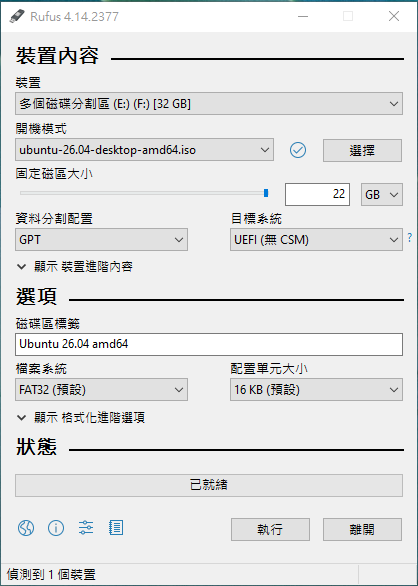
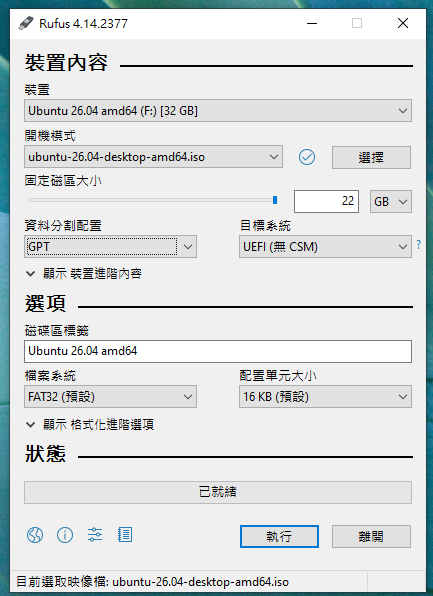
Windows bad, linux basic

Changed region(s): [[0.0, 0.0, 1.0, 1.0], [0.5287, 0.8601, 0.7775, 0.9215]]

diff --git a/ubuntu-party-2026/slides.md b/ubuntu-party-2026/slides.md
@@ -36,15 +36,78 @@ blockquote {
 ---
 transition: slide-up
 ---
+# 製作開機碟
+首先要下載作業系統的 ISO 檔。今天我們要灌的是 [Ubuntu 26.04](https://releases.ubuntu.com/26.04/)，已經幫各位下載下來了。
 
-# Windows v.s Linux
+## Linux
+- 方法一 (`dd`)
+  - 一個一個區塊(bits 尺度)複製過去
+```bash
+sudo dd if=/path/to/iso of=/path/to/device bs=4M status=progress
+```
 
-## 記憶體用量 (Windows)
+- 方法二 (`rsync`)
+  - 一個一個檔案搬過去
+  - 可以改內容
+  - 超麻煩，有興趣的人參考[這篇文章](https://www.windson.cc/zh/posts/live-usb-2/)
+
+<style>
+li {
+  margin-top: 15px
+}
+</style>
+---
+transition: slide-up
+---
+## Windows
+
+使用 [Rufus](https://rufus.ie/en/#download)
+
+<img src="./img/rufus_cover.png" class="mx-auto">
+
+<style>
+img {
+  height: 400px;
+  width: 
+} 
+</style>
+
+---
+layout: image-right
+image: ./img/rufus.png
+transition: slide-up
+---
+
+## Rufus
+1. 裝置：找到你的USB（他會自己找到 or 比對儲存空間大小）
+2. 開機模式：ubuntu-26.04-desktop-amd64.iso
+3. 資料分割配置：GPT
+
+<style>
+li {
+  margin-top: 20px;
+}
+</style>
+---
+layout: cover
+transition: slide-left
+---
+# Wait A Half Hour
+
+---
+layout: cover
+transition: slide-up
+---
+# Why use Linux ?
+---
+transition: slide-up
+---
+## 閒置時記憶體用量 (Windows)
 
  
 <div class="memory-item">
   <img src="./img/123.png" alt="Windows Memory">
-  <div v-click="2">
+  <div v-click="1">
     <span class="memory-label">68%</span>
   </div>
 </div>
@@ -66,7 +129,7 @@ transition: slide-up
 }
 
 .memory-label {
-font-size: 1.2rem;
+  font-size: 1.2rem;
   font-family: monospace;
   font-weight: bold;
   color: #ffffff;
@@ -76,11 +139,11 @@ font-size: 1.2rem;
 transition: slide-up
 ---
 
-## 記憶體用量 (Linux)
+## 閒置時記憶體用量 (Linux)
 <div class="memory-item">
   <img src="./img/mint-memory.png" alt="Mint Memory">
   <div v-click="1">
-    <span class="memory-label">12.6%</span>
+    <span class="memory-label">16.7%</span>
   </div>
 </div>
  
@@ -94,7 +157,7 @@ transition: slide-up
 }
 
 .memory-item img {
-  width: 600px;
+  width: 550px;
   height: auto;
   display: flex;
 }
@@ -108,27 +171,126 @@ font-size: 1.2rem;
 </style>
 
 ---
-transition: slide-left
+layout: cover
+transition: slide-up
+---
+# 記憶體用量大會怎樣？
+---
+layout: image-right
+image: ./img/windows-update.png
+transition: slide-up
 ---
 
-- ## 更新問題
-<div v-click="1">
-  <img src="./img/windows-update.png" class="mx-auto">
-</div>
-
+## 系統更新 (Windows)
+- 微軟叫更新，你只能聽話
+- 強迫更新之後硬體跟不上
+- [KCCI-TV 氣象播報中斷事件](https://www.youtube.com/watch?v=WumCZLTpfKw)
+- [2024年CrowdStrike大規模藍白畫面事件](https://zh.wikipedia.org/zh-tw/2024%E5%B9%B4CrowdStrike%E5%A4%A7%E8%A7%84%E6%A8%A1%E8%93%9D%E5%B1%8F%E4%BA%8B%E4%BB%B6)
 <style>
-img {
-  margin-top: 20px;
-  width: 650px;
-  height: 550x;
+li {
+  margin-top: 25px;
 }
 </style>
+
+---
+layout: cover
+transition: slide-left
+---
+# 你的電腦不是你的電腦
 
 ---
 layout: cover
 transition: slide-up
 ---
 # Let's use Linux
+
+---
+transition: slide-up
+---
+
+# Linux 小知識
+## 帳號管理
+<div class="account-intro">
+  <img src="./img/v_bird_account.jpg" class="mx-auto">
+  <span>
+    <a herf="https://linux.vbird.org/linux_basic/centos7/0210filepermission.php">鳥哥私房菜 圖5.1.1</a>
+  </span>
+</div>
+
+<style>
+.account-intro {
+  display: flex;
+  flex-direction: column;
+  align-items: center;
+  gap: 8px;
+  margin-top: 30px;
+}
+</style>
+
+---
+transition: slide-up
+---
+## 檔案權限
+
+- `r` : Read （讀檔）
+- `w` : Write （寫檔）
+- `x`：execute（執行）
+
+<div class="account-intro">
+  <img src="./img/vbird_5.2.1.gif" ">
+  <span>
+    <a herf="https://linux.vbird.org/linux_basic/centos7/0210filepermission.php">鳥哥私房菜 圖5.1.1</a>
+  </span>
+</div>
+
+<style>
+li {
+  margin-top: 15px;
+}
+.account-intro {
+  display: flex;
+  flex-direction: column;
+  align-items: center;
+  gap: 8px;
+  margin-top: 50px;
+}
+</style>
+
+---
+layout: center 
+transition: slide-up
+---
+# Linux 怎麼玩遊戲？
+
+<img v-click="1" src="./img/steam.jpg">
+
+<style>
+img {
+  margin-top: 30px;
+  height: 400px;
+  width: auto;
+}
+</style>
+
+---
+layout: image-right
+image: ./img/proton.png
+transition: slide-up
+---
+# Steam
+- [下載 .deb 檔](https://store.steampowered.com/about/)
+```bash
+sudo dpkg -i steam_latest.deb
+```
+
+在 Steam 中下載 Proton 後，大部分的遊戲都可以執行。如果不是 Steam 內的遊戲也可以匯入。
+
+---
+layout: cover
+transition: slide-up
+---
+# Let's try Linux
+
 ---
 layout: two-cols-header
 transition: slide-up
@@ -142,6 +304,9 @@ transition: slide-up
 
 > **可以在這邊設定要用哪個硬碟開機！**
 
+- 進入 BIOS/UEFI
+各廠牌進入的按鍵都不太一樣。請各位自行搜尋，已知：
+  - ASUS, Acer, MSI: `F2` and `Del`
 ::right::
 <img src="./img/bios.jpg" class="mx-auto">
 <style>
@@ -154,72 +319,26 @@ img {
 blockquote {
   margin-top: 20px;
   margin-right: 20px;
+  margin-bottom: 20px;
 }
 </style>
 ---
+layout: center
 transition: slide-up
 ---
-# 製作開機碟
-首先要下載作業系統的 ISO 檔。今天我們要灌的是 [Ubuntu 26.04](https://releases.ubuntu.com/26.04/)，已經幫各位下載下來了。
-
-## Linux
-- 方法一 (`dd`)
-  - 一個一個區塊(bits 尺度)複製過去
-```bash
-sudo dd if=/path/to/iso of=/path/to/device bs=4M status=progress
-```
-- 方法二 (`rsync`)
-  - 一個一個檔案搬過去
-  - 可以改內容
-  - 超麻煩，有興趣的人參考[這篇文章](https://www.windson.cc/zh/posts/live-usb-2/)
+<img src="./img/boot.jpg" class="mx-auto">
+<p>調整開機順序，把 USB 調到最前面，並關閉 Secure Boot</p>
 
 <style>
-li {
-  margin-top: 15px
+p{
+  margin-left: 100px;
 }
-</style>
----
-transition: slide-up
----
-## Windows
 
-使用 [Rufus](https://rufus.ie/en/#download)
-
-<img src="./img/rufus.png" class="mx-auto">
-
-<style>
 img {
-  height: 400px;
-  width: 
-} 
-</style>
-
----
-layout: image-right
-image: ./img/rufus.png
-transition: slide-up
----
-
-## Rufus
-1. 裝置：找到你的USB（他會自己找到 or 看一下儲存空間）
-2. 開機模式：ubuntu-26.04-desktop-amd64.iso
-3. 固定磁區大小：拉到底（這個決定你的儲存空間）
-4. 資料分割配置：GPT
-
-<style>
-li {
-  margin-top: 20px;
+  height: 500px;
+  width: auto;
 }
 </style>
 ---
-layout: cover
-transition: slide-left
----
-# Wait An Hour
----
-transition:slide-up
----
-# Linux 小知識
-## 帳號管理
 
 